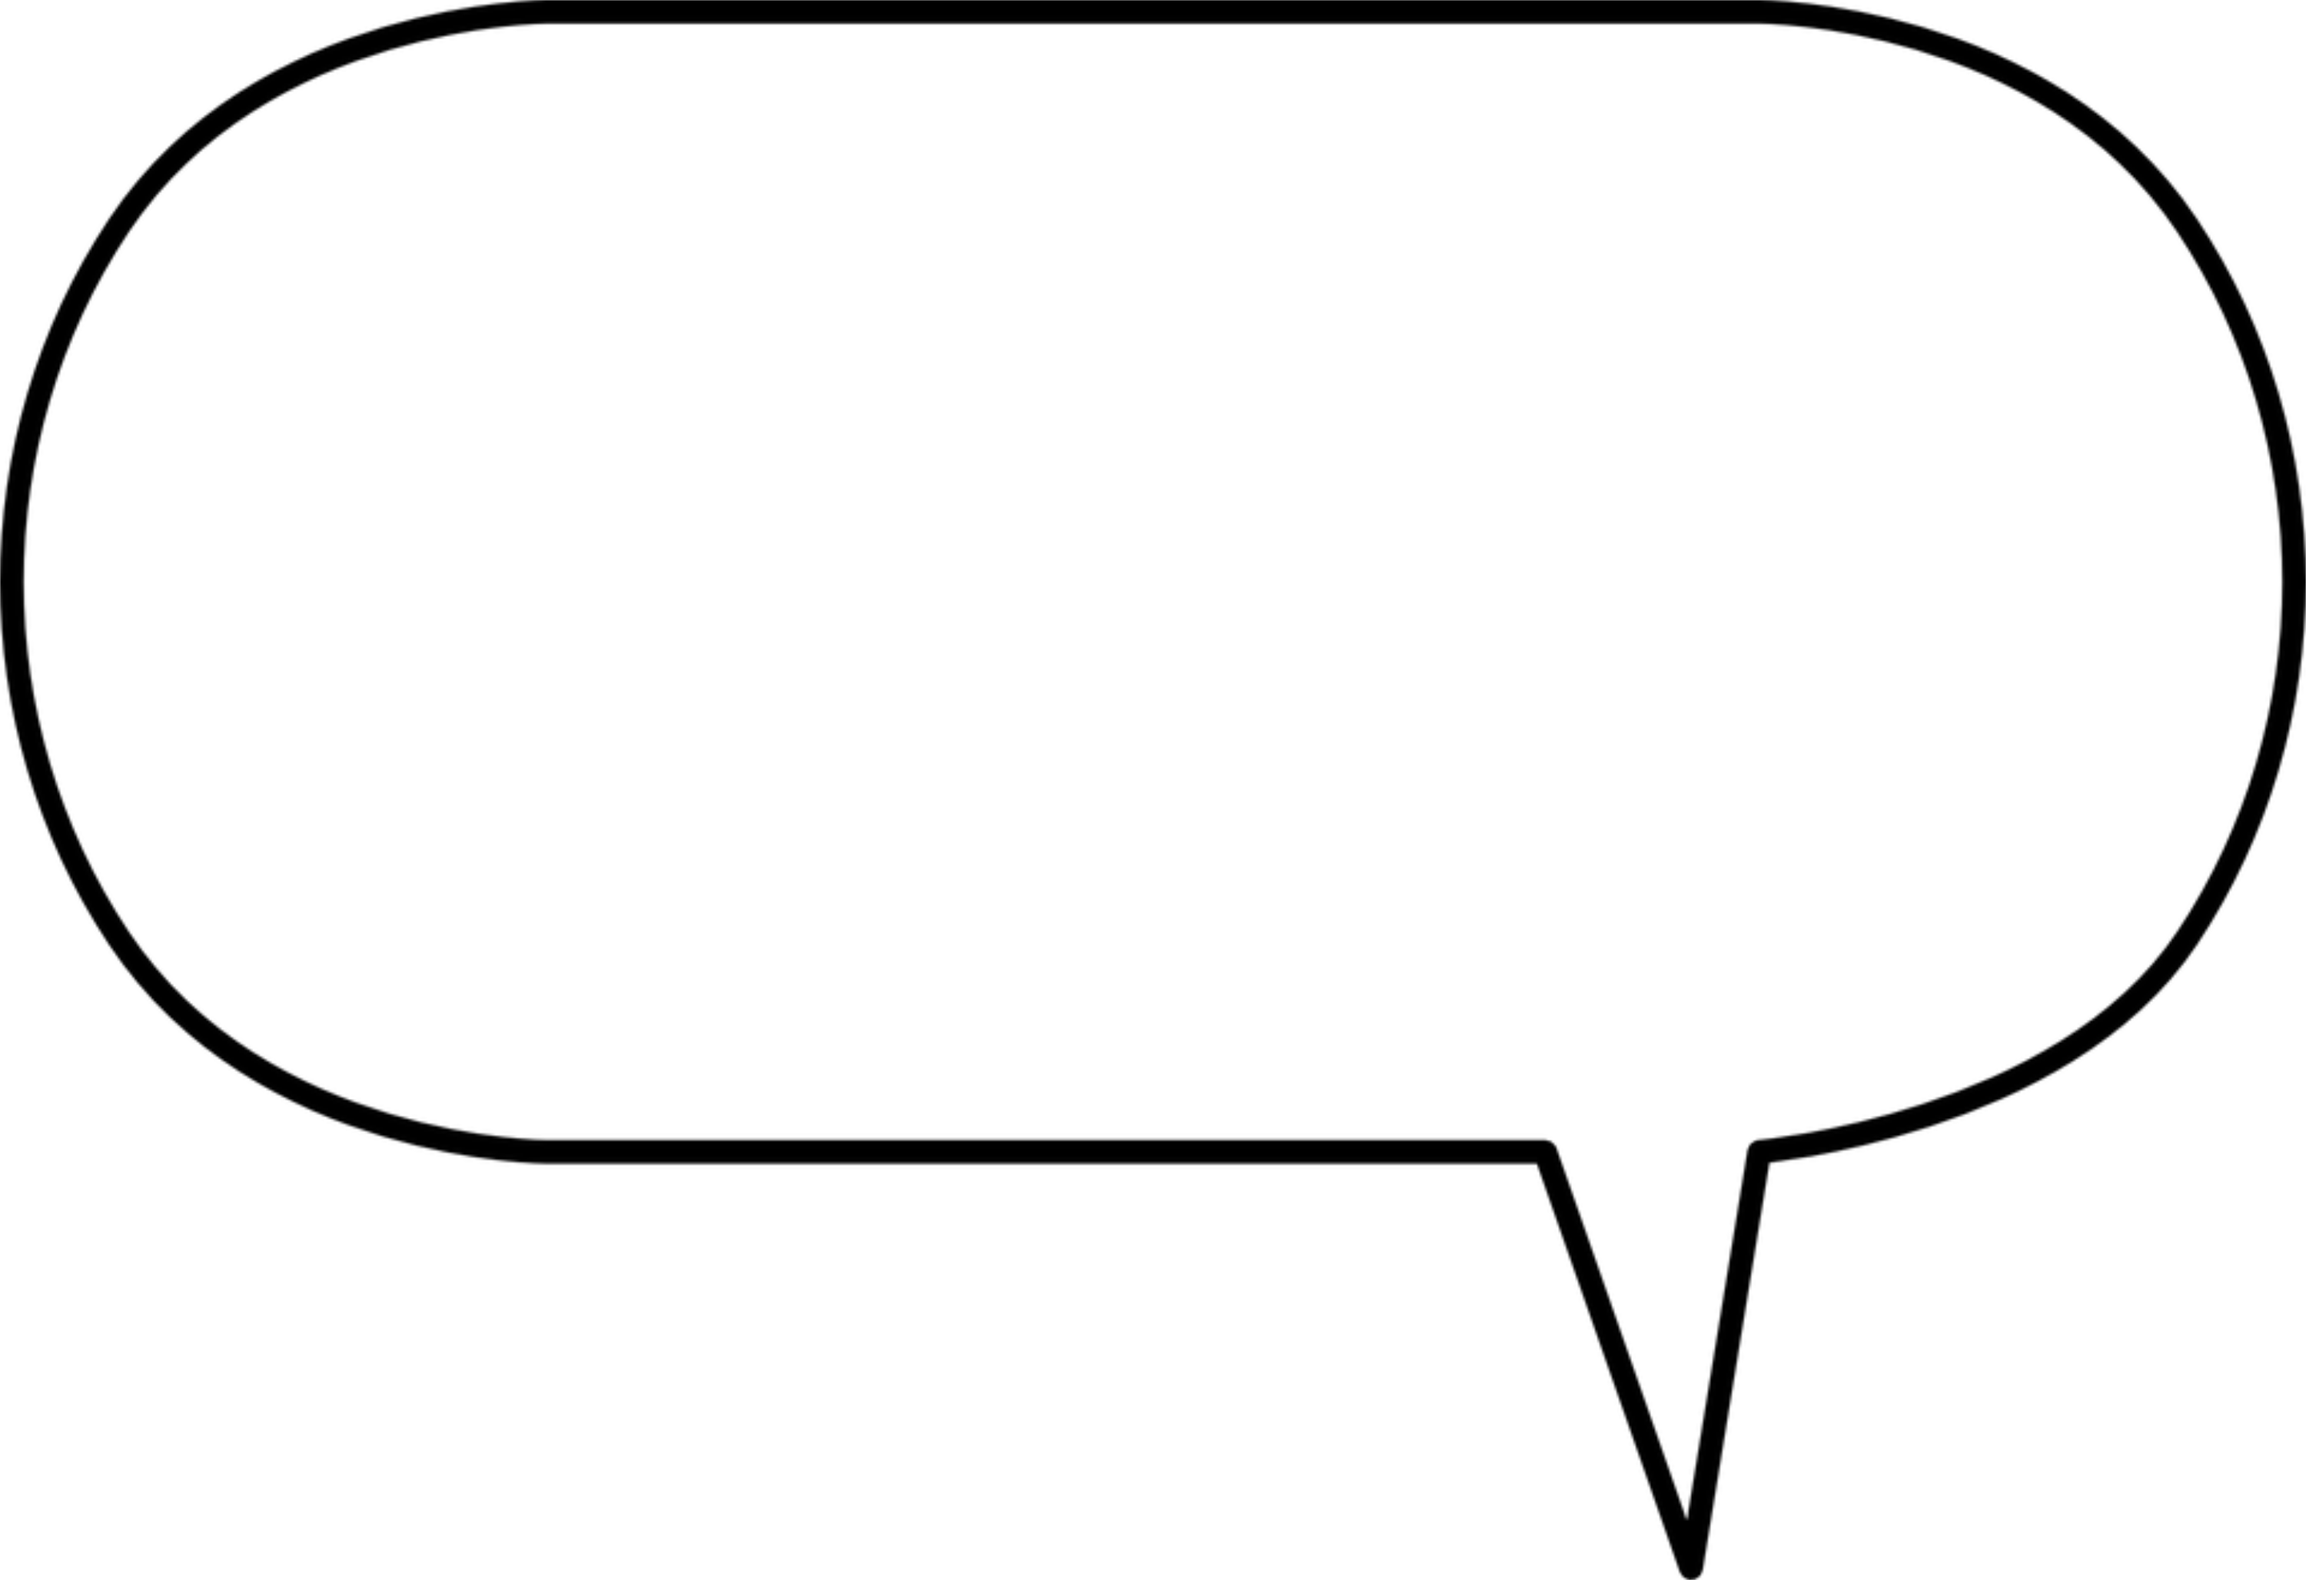
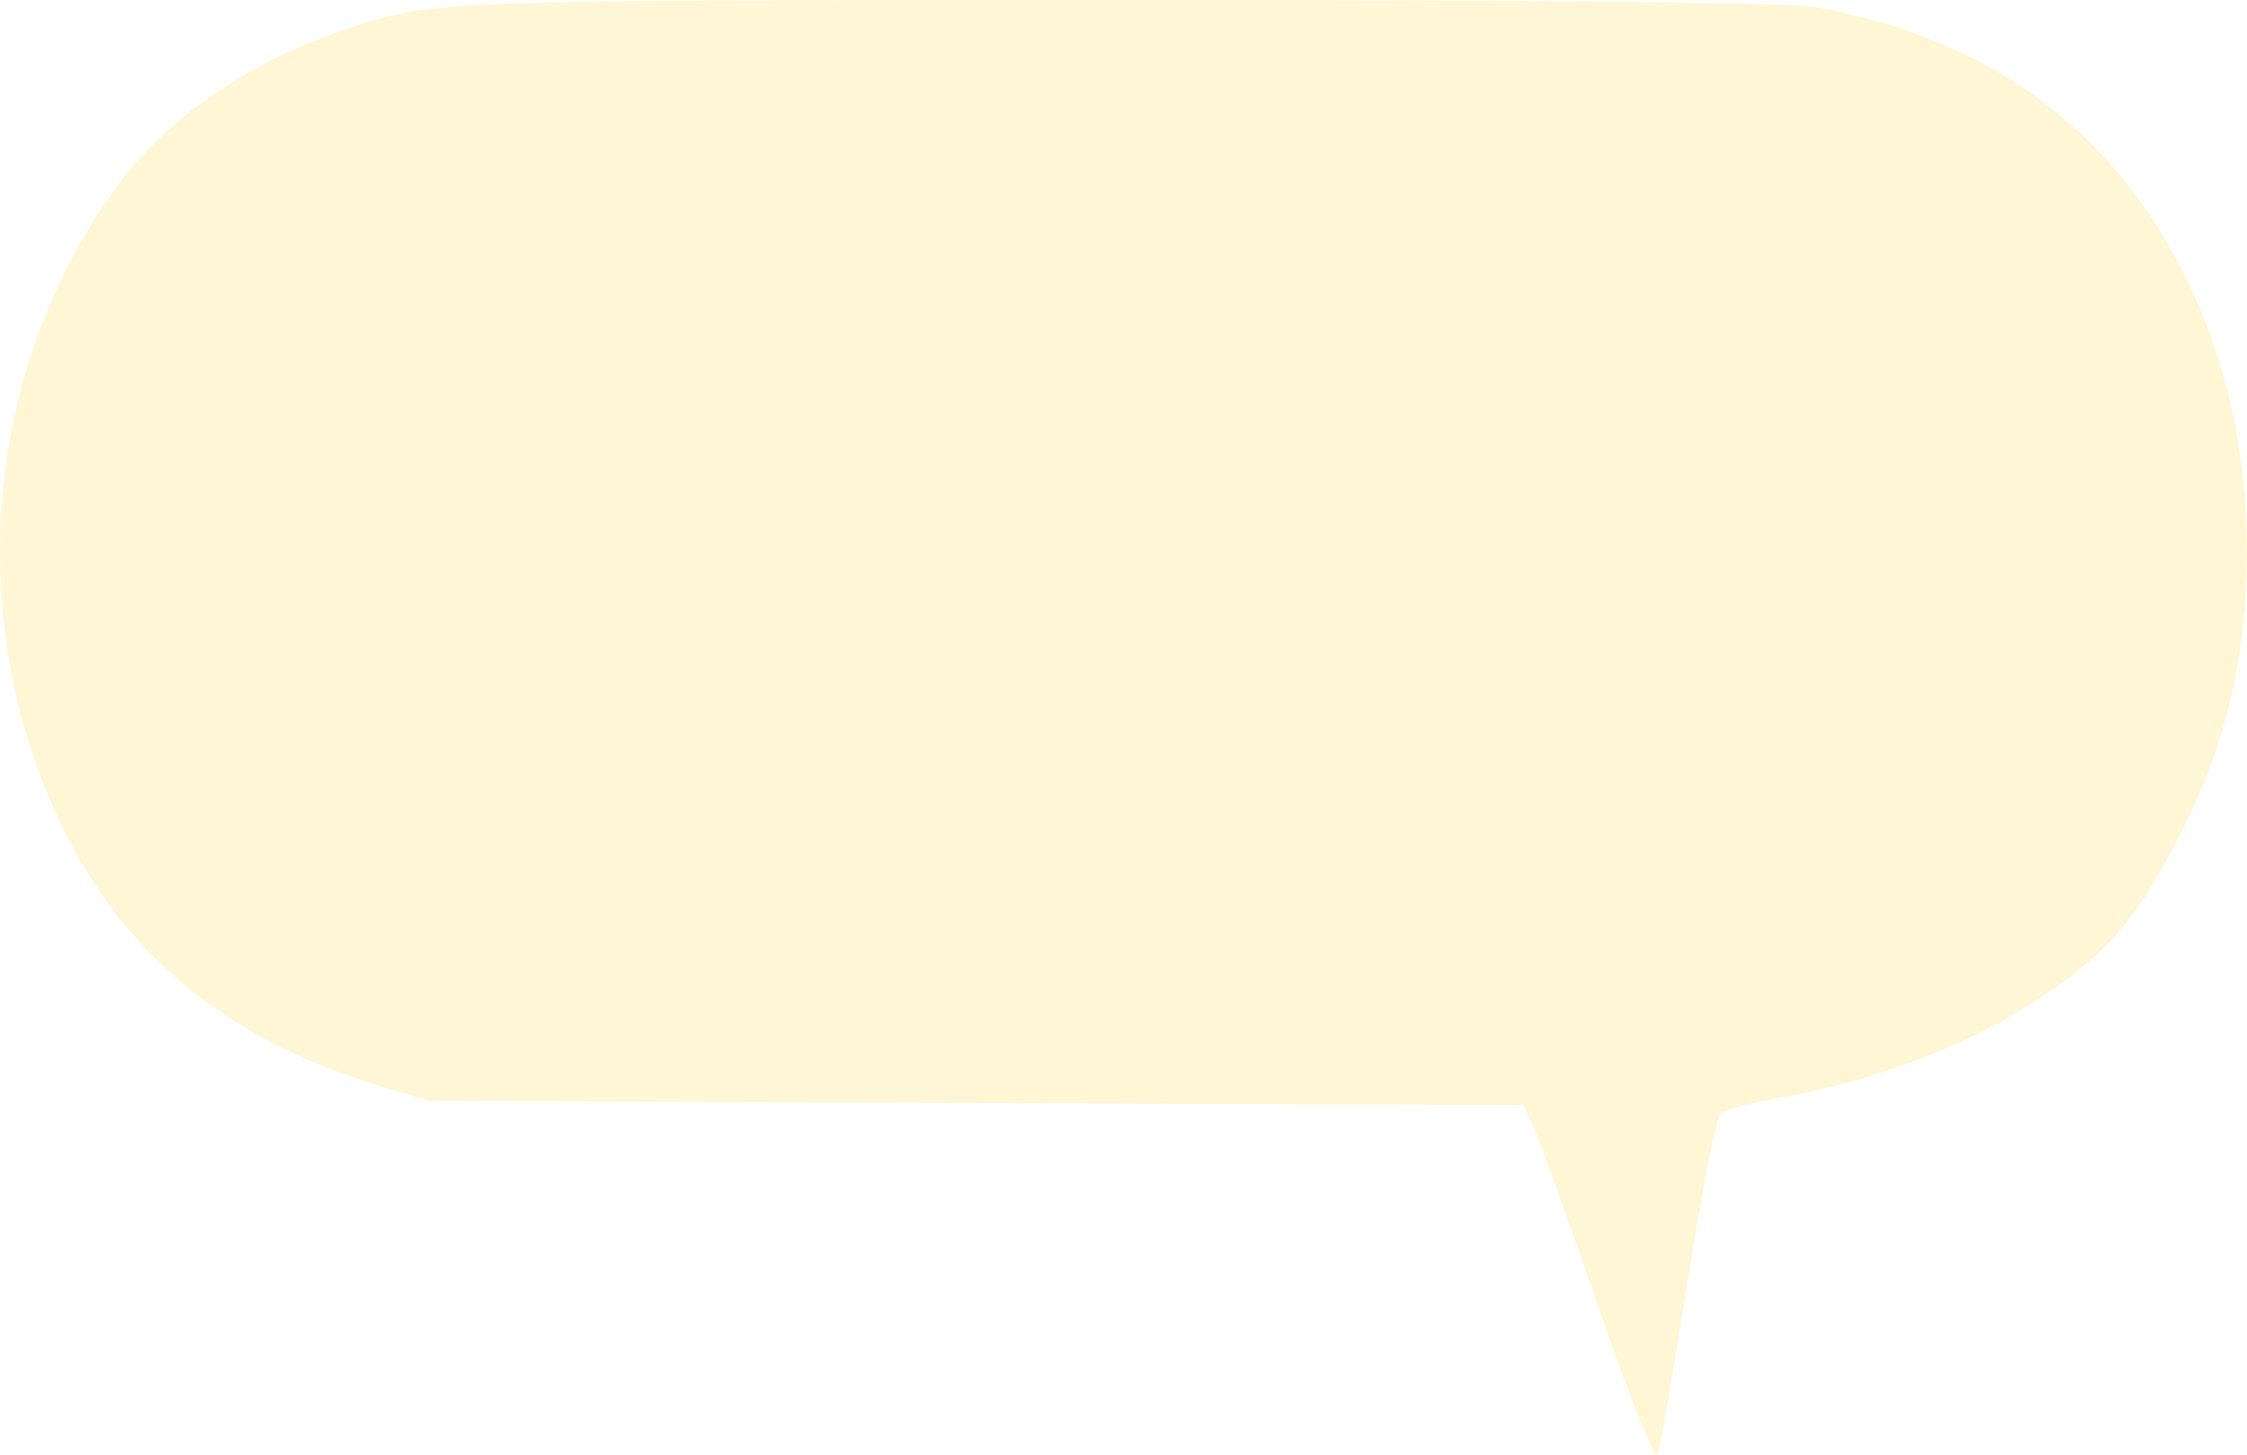
retornando imagem para png por falta de compatibilidade com chrome.

diff --git a/main.css b/main.css
@@ -21,7 +21,7 @@ body {
 
 #resposta-balao {
   display: block;
-  background-image: url('imgs/balao.svg');
+  background-image: url('imgs/balao.png');
   background-size: 100% 100%;
   width: 60%;
   padding: 3vh 7vh 13vh;
